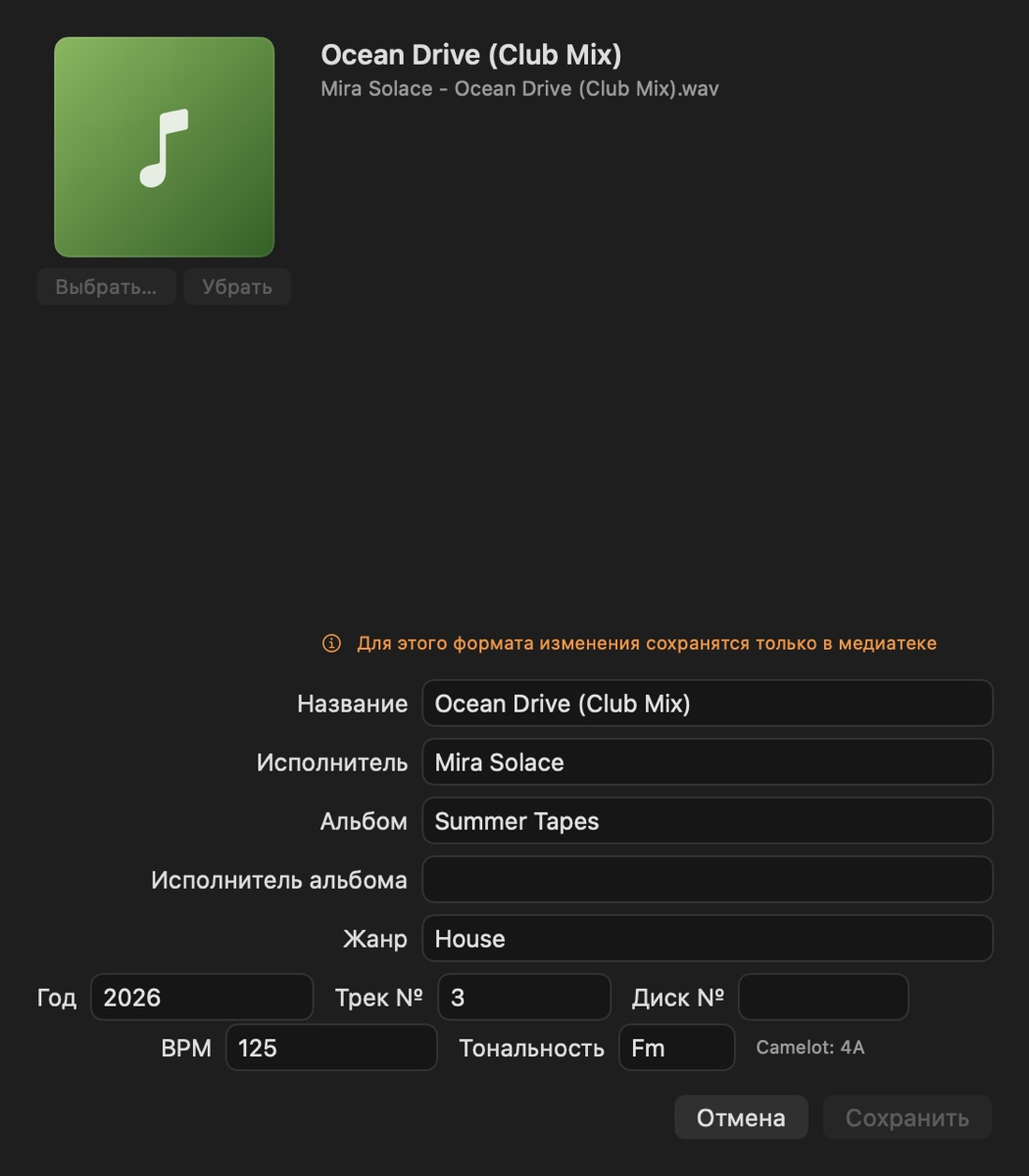
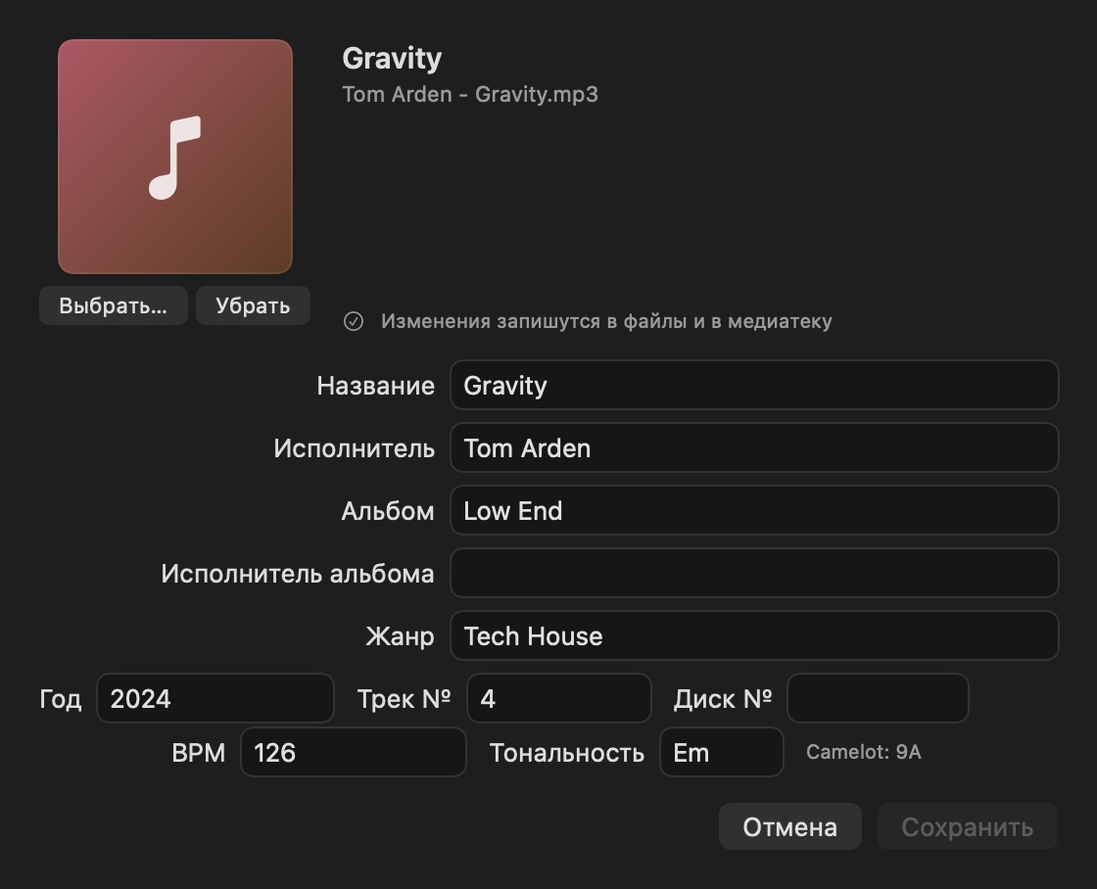
Сайт: свежие снимки окна тегов и обновления, окно отчёта в гайде

diff --git a/index.html b/index.html
@@ -328,8 +328,8 @@ var ISSUES_URL = GITHUB_URL + "/issues";
 var TELEGRAM_URL = "https://t.me/donskikh_music";
 var DONATE_URL = "https://www.donationalerts.com/r/donskikhserg";
 
-var SHOTS = {"update":[1200,967],"settings":[1143,1199],"main":[1600,875],"playlists":[1600,875],"library":[1600,875],"cues":[1600,875],"medium":[787,1199],"tags":[1050,1200],"mini":[840,200],"equalizer":[1200,505],"hotkeys":[947,1199],"bounds":[1200,606],"convert":[920,466],"playerbar":[1600,114],"medium-wide":[860,900]};
-var GUIDE_SHOTS = [["main"],["library"],["playlists"],["tags"],["equalizer","playerbar"],["bounds","playerbar"],["cues"],[],["medium-wide","mini"],["convert"],["hotkeys"],["settings"],["update"],[]];
+var SHOTS = {"update":[1040,598],"settings":[1143,1199],"main":[1600,875],"playlists":[1600,875],"library":[1600,875],"cues":[1600,875],"medium":[787,1199],"tags":[1120,908],"mini":[840,200],"equalizer":[1200,505],"hotkeys":[947,1199],"bounds":[1200,606],"convert":[920,466],"playerbar":[1600,114],"medium-wide":[860,900],"report":[920,850]};
+var GUIDE_SHOTS = [["main"],["library"],["playlists"],["tags"],["equalizer","playerbar"],["bounds","playerbar"],["cues"],[],["medium-wide","mini"],["convert"],["hotkeys"],["settings"],["update","report"],[]];
 var HISTORY = [["1.1.4","24.11.2026",["Синхронизация с Serato и rekordbox: если треки лежат в папках, к которым у плеера нет доступа, кнопка «Открыть доступ…» в итоге синхронизации даёт доступ к этим папкам. Плеер берёт из них только треки из плейлистов — в…"]],["1.1.3","24.11.2026",["Итог синхронизации с Serato и rekordbox различает «файла нет на диске» и «нет доступа к папке». Если треки лежат в папках, которых нет в медиатеке, кнопка «Добавить папки…» добавит их, и синхронизация повторится сама."]],["1.1.2","24.11.2026",["Постоянная подпись приложения: macOS запоминает разрешения (доступ к «Рабочему столу», «Загрузкам» и другим папкам) между обновлениями. При первом запуске 1.1.2 macOS может спросить доступ ещё один раз — нажмите «Разрешить»,…","В новой медиатеке резервная копия делается раз в неделю (настраивается в «Настройки → Медиатека»)."]],["1.1.1","24.11.2026",["Синхронизация с Serato: «Файл → Синхронизировать с Serato» — в боковой панели появляется раздел «Serato» со всеми кретами, с той же вложенностью и порядком треков. Повторная синхронизация обновляет их (кнопка в заголовке…","Синхронизация с rekordbox по XML-выгрузке коллекции: раздел «rekordbox» с плейлистами и рейтинг треков.","Плеер больше не замирает при запуске, пока macOS открывает папки медиатеки.","В новой медиатеке метки по умолчанию не записываются в файлы (включается в «Настройки → Воспроизведение»). У тех, кто уже пользуется плеером, всё как было.","Поддержка DJ-контроллеров помечена как экспериментальная (сейчас — Pioneer DDJ-XP2)."]],["1.1.0","24.11.2026",["Поддержка DJ-контроллера Pioneer DDJ-XP2: подключается сам, без драйвера (Настройки → «Контроллер»).","Пэды HOT CUE: верхний ряд — назад, играть/пауза, играть/пауза, вперёд; второй ряд — сохранённые петли 1–4; два нижних ряда — метки 1–8 (SHIFT + пэд — удалить). Пэды горят цветами меток.","BEAT JUMP — прыжок по долям, SHIFT + BEAT JUMP — петли, 4 BEAT, ½ и ×2, SYNC — Автосведение, QUANTIZE, MUTE.","Полоса FX LEVEL — громкость, энкодер — ход по списку, LOAD — играть выбранный трек.","Цвета меток по умолчанию — как в Serato DJ Pro.","Новые колонки списка (меню заголовка): «Рейтинг» — звёзды ставятся щелчком, «Прослушивания», «Комментарий» (по нему работает и поиск), «Расположение» — щелчок показывает файл в Finder.","В «Дубликатах» колонка «Расположение» видна сразу."]],["1.0.99","24.11.2026",["Перенос в плейлист: брошенное на пустое место под строками добавляется в конец, между строками — в это место, над первой строкой — в начало.","Известные и новые файлы, перенесённые вместе, добавляются одной операцией в исходном порядке; известные не анализируются заново.","Два одинаковых переноса подряд применяются оба; один перенос — один раз.","Длинные файлы: прыжок по метке и выход из петли больше не дают тишины и не подвешивают окно при медленном диске.","Файлы длиннее 5 часов не роняют анализ — понятное сообщение, воспроизведение доступно.","Обрезанный MP3 больше не получает ложную «полную» волну.","Треки из Serato DJ Pro переносятся мышью в плейлисты плеера.","Файл .crate из Finder на раздел «Плейлисты» — новый плейлист с тем же порядком; на обычный плейлист — записи в конец. Совпадения только по имени файла не подставляются; показывается, сколько найдено, добавлено, недоступно и…"]],["1.0.98","24.11.2026",["Треки снова перетаскиваются в плейлисты — из списков плеера и из Finder.","Файлы из Finder, которые уже есть в медиатеке, добавляются в плейлист сразу, без повторного анализа."]],["1.0.97","23.11.2026",["Треки снова перетаскиваются в плейлисты и в очередь, без дублей.","Убран короткий щелчок в начале и в конце каждого перехода Automix.","Смена длины петли больше не сдвигает её. После горячей метки и выхода из петли звук не прерывается даже на медленном диске.","Если файл не удаётся прочитать до конца, анализ и волна пробуют другой способ чтения.","Следующий трек вступает вовремя и во время плавного возврата темпа — в том числе после перемотки и паузы.","Большая папка не подвисает, когда фоновый анализ дописывает темп при включённой сортировке.","Папки с корейскими, японскими и другими именами показывают свои треки.","Видео, которое прежние версии открывали плеером, снова открывается QuickTime Player."]],["1.0.96","23.11.2026",["Плеер больше не зависает при сортировке большой папки.","Папку можно перетащить на плейлист, а порядок треков менять и во вложенных папках.","Удаление папки из медиатеки больше не затрагивает треки вложенной папки, добавленной отдельно.","Переход к следующему треку не опаздывает, если щёлкнуть по волне перед самым концом.","«Играть следующим» и «В конец очереди» в меню трека.","Импорт кретов Serato: «Файл → Импорт кретов Serato…» или перетащите файл крета в окно плеера.","Видео больше не открывается плеером по умолчанию — только если вы сами добавили его в медиатеку."]],["1.0.95","22.11.2026",["Умные плейлисты как умные креты Serato: можно отбирать по комментарию, композитору, группе, лейблу, ремиксеру, имени файла и пометке 18+.","Настройка «Доверять темпу из тегов»: автосведение идёт по сетке долей Serato, если трек разбирали в Serato.","Анализ сначала обрабатывает треки без темпа и тональности в тегах.","Повреждённые файлы и видео без звука больше не «всплывают» при каждой проверке папок. Список таких файлов — кнопка «Показать»."]],["1.0.94","22.11.2026",["Плеер больше не перепроверяет всю медиатеку снова и снова, когда играют треки с метками Serato. На больших медиатеках это заметно разгружает Mac.","Папки, лежащие внутри другой добавленной папки, больше не становятся пустыми.","Умные плейлисты сразу показывают, сколько в них треков, — в том числе после добавления новых папок. Правая кнопка → «Обновить»."]],["1.0.93","22.11.2026",["После щелчка по звуковой волне (или метке) во время игры плеер мог не перейти к следующему треку, когда текущий доигрывал. Теперь переходит — с автосведением и без.","Эквалайзер и эффекты автосведения работают только тогда, когда действительно меняют звук."]],["1.0.92","22.11.2026",["Плеер почти не нагружает процессор, когда музыка не играет. Раньше индикатор уровня звука постоянно перерисовывал окно.","Во время игры индикатор и звуковая волна стали заметно легче.","После отправки пожелания или отчёта можно поддержать проект донатом."]],["1.0.91","22.11.2026",["Справка → «Предложить улучшение…»: напишите, что добавить или изменить в плеере, — пожелание сразу придёт автору.","Плеер мог намертво зависнуть, когда виден индикатор уровня звука.","Средний плеер мог закрыться с ошибкой, когда очередь укорачивалась.","Проверка медиатеки, анализ и конвертация больше не замедляются, когда окно плеера в фоне.","Плеер проверен роботом: нажаты все кнопки во всех окнах, все команды меню и тысячи случайных действий подряд."]],["1.0.90","21.11.2026",["Отчёт о проблеме теперь отправляется автору прямо из плеера: Справка → «Отчёт о проблеме…» → «Отправить». Можно оставить контакт (@ник в Telegram или почту), чтобы автор мог уточнить детали. Сохранить отчёт файлом по-прежнему…","Если плеер в прошлый раз завершился неожиданно, при следующем запуске он сам предложит отправить отчёт."]],["1.0.89","21.11.2026",["Конвертер: правый щелчок по трекам → «Конвертировать…». MP3 320 кбит/с, AAC (M4A), ALAC и FLAC без потерь, WAV 16 и 24 бит, AIFF. Можно сменить частоту (44,1 или 48 кГц). Название, исполнитель, альбом, BPM, тональность и…","Индикатор уровня на выходе: левый и правый канал под ползунком громкости (в полном и среднем плеере), пиковая отметка держится секунду.","«Закрыть DONSKIKH Media Player?» — вопрос при выходе, чтобы случайно не остановить музыку. Можно отключить: «Больше не спрашивать» или Настройки → Основные.","Отметка на волне больше не мигает при перемотке и hot cue."]],["1.0.88","20.11.2026",["Метки (hot cue) и сохранённые петли сразу записываются в файл (MP3, FLAC — в формате Serato): при переносе файла в Serato DJ они уже на месте. Удалили метку — она пропадает и из файла. Выключается в Настройки → Воспроизведение.","Многоканальные пульты и звуковые карты (Flow8, XR18, X32, Wing…): выбор, в какие каналы идёт звук — 1–2, 3–4 и т. д. Значок рядом с громкостью или Настройки → Воспроизведение.","«Не переходить к следующему треку»: трек доиграл — плеер останавливается. Настройки → Воспроизведение или меню «Управление».","Ссылка на поддержку автора — в Настройки → Основные.","Hot cue и щелчок по волне во время игры — без паузы и заметно быстрее: звук переходит сразу, плеер не останавливается.","Выбранное устройство вывода больше не «слетает» на динамики Mac, когда macOS перезапускает звук (подключение пульта)."]],["1.0.87","20.11.2026",["Выбор, куда идёт звук: наушники, звуковая карта, Bluetooth, HDMI — значок рядом с громкостью (в полном и среднем плеере) или Настройки → Воспроизведение. Если отключить выбранное устройство, звук пойдёт на системное, а при…","Настройки → Медиатека: «Названия и исполнители из имени файла» — для файлов вида «Исполнитель - Название.mp3» с пустыми или неверными тегами. Номер, BPM и тональность в начале имени отбрасываются. Теги в файлах не меняются.","Средний плеер: кнопка «Скрыть обложку» — больше места под список.","Плеер подробнее записывает в журнал, как завершилась работа (нормальный выход, закрытие окна или сбой), — это поможет найти причину, если программа неожиданно закроется. Пришлите «Отчёт о проблеме», если это повторится."]],["1.0.86","20.11.2026",["Повторный двойной щелчок по треку при включённом Automix включает его сразу. Раньше каждый щелчок заново откладывал переход, и трек долго не начинался.","Средний плеер: трек в списке выбирается и запускается щелчком в любом месте строки, а не только в определённой точке. Треки можно перетаскивать, меняя порядок.","Средний плеер растягивается на всю ширину окна — без пустых полей по бокам.","Проверка обновлений больше не открывает одновременно большой и средний плеер.","Конец некоторых MP3 больше не обрезается: трек доигрывает до конца, а не переключается на следующий за секунду-полторы. У таких файлов теперь строятся волна и анализ.","«Музыкальная библиотека»: недавно добавленный трек выделяется щелчком, двойной щелчок — воспроизведение.","В среднем плеере — панель меток и петель (как в большом), если она включена.","Эквалайзер в среднем плеере — компактная панель (вкл/выкл, пресет, кривая); все 30 полос — кнопкой «Все полосы…»."]],["1.0.85","19.11.2026",["Длинная петля: если включить петлю задолго до её конца, звук больше не пропадает на секунду-две перед первым повтором — играет непрерывно.","Выход из петли и смена её длины (½, ×2) до того, как звук дошёл до конца петли, тоже проходят без паузы.","Бит-сведение и режимы на его основе (замена баса, фильтр, эхо): удары нового трека теперь совпадают со старым на протяжении всего перехода. Раньше они постепенно расходились — на длинном переходе слышался «двойной» удар."]],["1.0.84","18.11.2026",["«Справка → Отчёт о проблеме…»: плеер собирает журнал работы, сведения о системе и звуке и отчёты macOS о вылетах в один текстовый файл в папке «Загрузки». Ничего не отправляется само — пришлите файл автору в Telegram или по…","Названия треков и пути к файлам в отчёте по умолчанию скрыты; их можно включить галочкой."]],["1.0.83","18.11.2026",["Петли: при включении и выключении петли, а также при смене её длины больше нет микропаузы и «подвисания» — звук идёт непрерывно, выход из петли происходит ровно на стыке круга.","Устранена редкая причина аварийного закрытия плеера при переключении треков."]],["1.0.82","18.11.2026",["Обновления прямо из плеера: когда выходит новая версия, появляется окно с описанием изменений и кнопкой «Скачать и установить». Проверить вручную — меню «DONSKIKH Media Player» → «Проверить обновления…».","Hot cue и петли: 8 меток на трек, петли с автодлиной по такту; метки видны на волне — щелчок по метке переходит к ней, правый щелчок ставит новую (панель меток — ⌥⌘C).","Экспорт в Rekordbox (XML) и Serato DJ (crates); метки Serato из файлов появляются сами.","Пункт «Поддержать автора донатом…» в меню.","Перетаскивание трека в Finder и Telegram копирует сам музыкальный файл.","Файлы 5.1/7.1 больше не играют тишиной; .wave открываются.","Перемешивание не начинает круг заново при правке очереди.","Несколько редких падений при перемотке и на повреждённых файлах."]],["1.0.81","18.11.2026",["Перетаскивание трека из плеера в Finder копирует сам музыкальный файл (исправление 1.0.80 не сработало в Finder). Оригинал в медиатеке остаётся на месте."]],["1.0.80","18.11.2026",["Перетаскивание трека из плеера в Finder (и в Telegram, почту) теперь копирует сам музыкальный файл с его именем, а не создаёт файл «DONSKIKH Track Reference»."]],["1.0.79","18.11.2026",["Щёлкните по флажку метки на волне — плеер перейдёт к ней и заиграет.","Правый щелчок по волне — «Поставить метку здесь» (1–8); по самой метке — «Перейти» или «Удалить».","В меню «DONSKIKH Media Player» — пункт «Поддержать автора донатом…» (из 1.0.78)."]],["1.0.78","18.11.2026",["В меню «DONSKIKH Media Player» появился пункт «Поддержать автора донатом…» — открывает страницу доната DonationAlerts."]],["1.0.77","18.11.2026",["Rekordbox. Меню «Медиатека» → «Экспорт для Rekordbox (XML)…». В файле — все треки с BPM, сеткой ударов, тональностью, метками и петлями, все плейлисты. В Rekordbox: Настройки → Дополнительно → База данных → rekordbox xml.","Serato DJ. Меню «Медиатека» → «Экспорт в Serato DJ (crates)…» → выберите папку _Serato_. Плейлисты станут crates (вложенные — подкрейтами). Если отметить галочку, метки и петли запишутся в сами файлы MP3 и FLAC, и Serato их…","Crates Serato с такими же именами перед заменой сохраняются в папку «DONSKIKH backup» — ничего не теряется."]],["1.0.76","18.11.2026",["Hot cue. 8 меток на трек. Нажали пустой пэд — метка встала в текущем месте; нажали занятый — плеер перешёл к метке и играет. Правый щелчок: имя, цвет, переставить, удалить.","Петли. Начало и конец вручную, автопетля на 1–16 долей (по сетке ударов трека), вдвое короче или длиннее, включить и выключить, 4 ячейки для сохранённых петель. Петля звучит без щелчков и пауз.","На волне видны все метки (цветные флажки с номерами) и петли.","Метки из Serato DJ появляются сами, если вы уже ставили их в Serato.","Панель пэдов открывается кнопкой в плеере или ⌥⌘C. Клавиши: 1–8 — метки (⇧ — удалить), I/O — начало и конец петли, L — петля вкл/выкл, − и = — короче/длиннее."]],["1.0.75","18.11.2026",["Треки можно перетащить из списка, плейлиста, очереди или панели «Сейчас играет» в Finder, Telegram, почту, DAW — копируется сам файл.","Можно перетащить сразу несколько выделенных треков.","Трек из CUE-образа переносится отдельным WAV-файлом (только эта песня, без потерь качества)."]],["1.0.74","17.11.2026 (проверка Claude, не устанавливалась)",["Перемешивание: если добавить, убрать или переставить треки в очереди, уже сыгранные треки не повторяются, а добавленные звучат в текущем круге.","После перезапуска очередь продолжает с того же места, даже если трек стоит в ней дважды.","Плейлисты M3U, сохранённые в Windows как «Юникод» (UTF-16), открываются правильно.","Экспорт M3U не падает на треке с неизвестной длительностью.","CUE с ошибочным номером трека больше не портит название альбома.","Исправлены редкие падения программы при перемотке и на файлах с повреждённой длительностью.","Плейлист, сохранённый более новой версией программы, сообщает об этом, а не «не является плейлистом».","Поиск не сходит с ума от невидимых символов, вставленных из буфера."]],["1.0.73","17.11.2026 (проверка Claude, не устанавливалась)",["Плеер больше не предлагается для открытия любых текстовых файлов — только для M3U/M3U8.","Импорт M3U не спрашивает папку, если треки уже в медиатеке, плейлист пуст или в нём битые строки; отмена не создаёт пустой плейлист.","«Сделать проигрывателем по умолчанию» назначает каждый формат (MP3, FLAC, M4A…), а не только общий тип.","Перенос каталога: одноимённые плейлисты больше не теряются.","Волна: меньше лишней работы при переключении треков и на повреждённых файлах.","Переводы окон каталога и раздела «Закреплённые»."]],["1.0.72","17.11.2026",["Исправлен запрос security-scoped доступа для сторонних M3U."]],["1.0.71","17.11.2026",["Сторонние M3U теперь импортируются после запроса доступа к папке с треками."]],["1.0.70","17.11.2026",["Исправлен импорт M3U с относительными путями и файлами, которых ещё нет в медиатеке."]],["1.0.69","17.11.2026",["Добавлено открытие M3U/M3U8 из Finder с появлением плейлиста в разделе «Плейлисты»."]],["1.0.68","17.11.2026",["Двойной клик по аудиофайлу в Finder теперь добавляет файл в медиатеку, ставит его в очередь и запускает воспроизведение."]],["1.0.67","17.11.2026",["Назначение проигрывателя по умолчанию выполняется одним системным подтверждением для аудиоформатов."]],["1.0.66","17.11.2026",["Блок донатов виден первым в справке.","В приветственном окне добавлена кнопка поддержки проекта."]],["1.0.65","17.11.2026",["Добавлена добровольная поддержка проекта через DonationAlerts в справке и окне «О программе»."]],["1.0.64","17.11.2026",["Исправлен анализ MP3, которые возвращают eofErr на последнем неполном пакете после успешного чтения всех кадров."]],["1.0.63","17.11.2026",["Восстановлена звуковая волна для файлов, у которых дополнительная звуковая дорожка недоступна или изменила идентификатор.","Добавлены дополнительные попытки чтения после временной ошибки доступа."]],["1.0.62","16.11.2026",["Исправлено восстановление звуковой волны после временной ошибки доступа к файлу.","Пустой результат анализа больше не показывается как рабочая ровная линия.","Секция закреплённых папок и плейлистов переименована в «Закреплённые»."]],["1.0.61","16.11.2026",["Нагрузочная проверка статистики теперь включает 200 000 переходов и проверяет индекс времени переходов."]],["1.0.60","16.11.2026",["Исправлено сопоставление одинаковых треков при переносе плейлистов.","Неоднозначный умный плейлист теперь пропускается, а остальные данные импортируются.","Добавлен индекс статистики переходов по времени."]],["1.0.59","16.11.2026",["Исправлены границы воспроизведения при паузе и перемотке.","Добавлен импорт одиночных CUE-файлов с выбором папки.","Добавлен переносимый экспорт/импорт каталога медиатеки без абсолютных путей.","В статистике появились источники запуска и типы переходов."]],["1.0.58","16.11.2026 (сводная ветка, не устанавливалась)",["Теги M4A: запись через журнал и сверку звука — при сбое или отключении питания файл не портится.","Автоматические резервные копии медиатеки по расписанию (ежедневно или еженедельно, 5 последних).","Без паузы между треками (gapless), когда Automix выключен: альбомы и треки CUE звучат непрерывно.","Статистика для DJ: темп и тональности Camelot прослушанного; экспорт истории в CSV.","Переводы строк с подстановками; правильные формы «1 прослушивание / 2 прослушивания / 5 прослушиваний»."]],["1.0.57","16.11.2026 (сводная ветка, не устанавливалась)",["Звук из видео: выбор звуковой дорожки (язык, название) — правый щелчок → «Звуковая дорожка».","CUE: треки внутри одного большого файла — добавьте папку с образом и файлом .cue.","Обмен плейлистами: «Экспортировать для DONSKIKH…», «Поделиться…», импорт .donskikhplaylist.","Умные плейлисты: поиск без учёта регистра для кириллицы («Кино» = «кино», «Ёлка» = «елка»).","74 строки интерфейса 1.0.42–1.0.56 переведены на все 10 языков."]],["1.0.56","16.11.2026",["Исправлен анализ волн для файлов с security-scoped bookmark и изменившимся путем.","Кеш волн автоматически пересобирается после обновления алгоритма доступа."]],["1.0.55","16.11.2026",["Finder drag-and-drop сохраняет исходное имя и расширение аудиофайла.","Убран generic content type .audio, который создавал файл «Аудио» без расширения."]],["1.0.54","16.11.2026",["Drag-and-drop одного трека из медиатеки, папки или плейлиста в Finder теперь передаёт обычный аудиофайл.","Внутренний DONSKIKH Track Reference сохраняется как запасной формат для переносов внутри плеера.","Перетащите один трек в любую папку Finder: должна появиться его копия с обычным расширением (.mp3, .wav, .flac и т. п.)."]],["1.0.49","16.11.2026",["Добавлен единый CHANGELOG.md со всей историей версий 1.0.32–1.0.49.","Зафиксирована последовательная нумерация каждой правки.","В WORK_LOG.md добавлена запись о правилах ведения истории."]],["1.0.48","",["Добавлены пользовательские границы воспроизведения для каждого трека.","«Начать с» и «Играть до» задаются в контекстном меню трека в секундах или формате мм:сс.","По умолчанию начало — 0:00, конец — конец файла.","При достижении заданного конца плеер переходит к следующему треку."]],["1.0.47","",["Добавлена встроенная справка вместо системного сообщения «справка отсутствует».","Разделы: начало работы, папки, плейлисты, Smart Playlists, два дека, Automix, EQ, ReplayGain, Backup/Restore, горячие клавиши, ошибки файлов и статистика.","Добавлен поиск по справке и команда «Справка DONSKIKH Media Player» в меню «Справка»."]],["1.0.46","",["Добавлены macOS-команды ⌘C, ⌘X и ⌘V для треков в обычных плейлистах.","⌘C копирует пути выбранных треков в системный буфер.","⌘X удаляет записи из плейлиста, файлы на диске не удаляются.","⌘V сопоставляет пути с медиатекой и добавляет найденные треки в плейлист."]],["1.0.45","",["Smart Playlist LIKE-значения экранируют %, _ и \\\\.","«Не содержит» и «не равно» учитывают пустые поля.","setSync дожидается очереди фоновых настроек."]],["1.0.44","",["Backup/Restore UI теперь открывает пакеты .sonora-backup из выбранной папки.","Запоминается security-scoped bookmark папки копий.","В списке показываются дата, размер и версия приложения из manifest.json.","Удаление копии требует подтверждения.","Добавлена ротация пакетов .sonora-backup."]],["1.0.43","",["Мультивыбор папок и плейлистов в боковой панели.","Delete и перемещение выбранных элементов выше/ниже с macOS-командами."]],["1.0.42","",["В разделе «Все папки» добавлена явная кнопка удаления выбранной папки.","Перетаскивание трека на папку теперь копирует аудиофайл в папку и импортирует копию.","Добавлена регистрация поддерживаемых типов файлов и кнопка назначения DONSKIKH Media Player проигрывателем по умолчанию.","Ошибка недоступного трека показывается только в активном режиме плеера, без повторных окон во всех режимах."]],["1.0.41","",["Добавлен длительный stability campaign для Backup/Restore и настроек.","Исправлен порядок быстрых фоновых записей настроек.","Release-сборка проверена."]],["1.0.40","",["Полноценный локальный Backup/Restore медиатеки.","Проверка целостности и совместимости до восстановления.","Rollback-копия текущей базы перед заменой.","Управление резервными копиями из настроек медиатеки."]],["1.0.39","",["Проверка integrity_check.","Список и ротация последних копий.","Музыкальные файлы не копируются."]],["1.0.38","",["Внутренние улучшения и исправления."]],["1.0.37","",["Release XCTest теперь видит Swift-модуль приложения через TEST_HOST.","Поведение приложения и Bundle ID не изменены."]],["1.0.36","",["Папки и подпапки имеют собственный переносимый payload.","При броске на плейлист добавляются все треки папки, включая вложенные.","Файлы на диске не копируются и не перемещаются."]],["1.0.35","",["«Медиатека», «Папки» и «Плейлисты» можно сворачивать отдельно.","Состояние секций сохраняется между запусками.","Вложенные папки и плейлисты продолжают раскрываться независимо."]],["1.0.34","",["Строки плейлистов принимают Finder URL отдельно от внутренних трековых переносов.","Папки и все поддерживаемые аудиофайлы импортируются непосредственно в выбранный плейлист.","Bundle ID и пользовательская медиатека сохранены."]],["1.0.33","",["Несколько условий в одном Smart Playlist.","AND/OR для группы условий.","Типизированные операторы по типу поля.","Условия title, artist, album artist, genre, BPM, Key, Camelot, dates, rating, bitrate, sample rate, ReplayGain и Beatgrid.","Валидация значений до сохранения.","Редактирование существующего Smart Playlist из боковой панели."]],["1.0.32","",["Добавлен безопасный движок правил Smart Playlist (AND/OR, диапазоны, сортировка, лимит).","Добавлен конструктор Smart Playlist в боковой панели."]]];
 var DLN = 0;
 function shotImg(n, alt, eager) { return '<img src="images/' + n + '.jpg" width="' + SHOTS[n][0] + '" height="' + SHOTS[n][1] + '" alt="' + esc(alt) + '"' + (eager ? '' : ' loading="lazy"') + ' onerror="this.style.visibility=\'hidden\'" style="display:block;width:100%;height:auto">'; }
